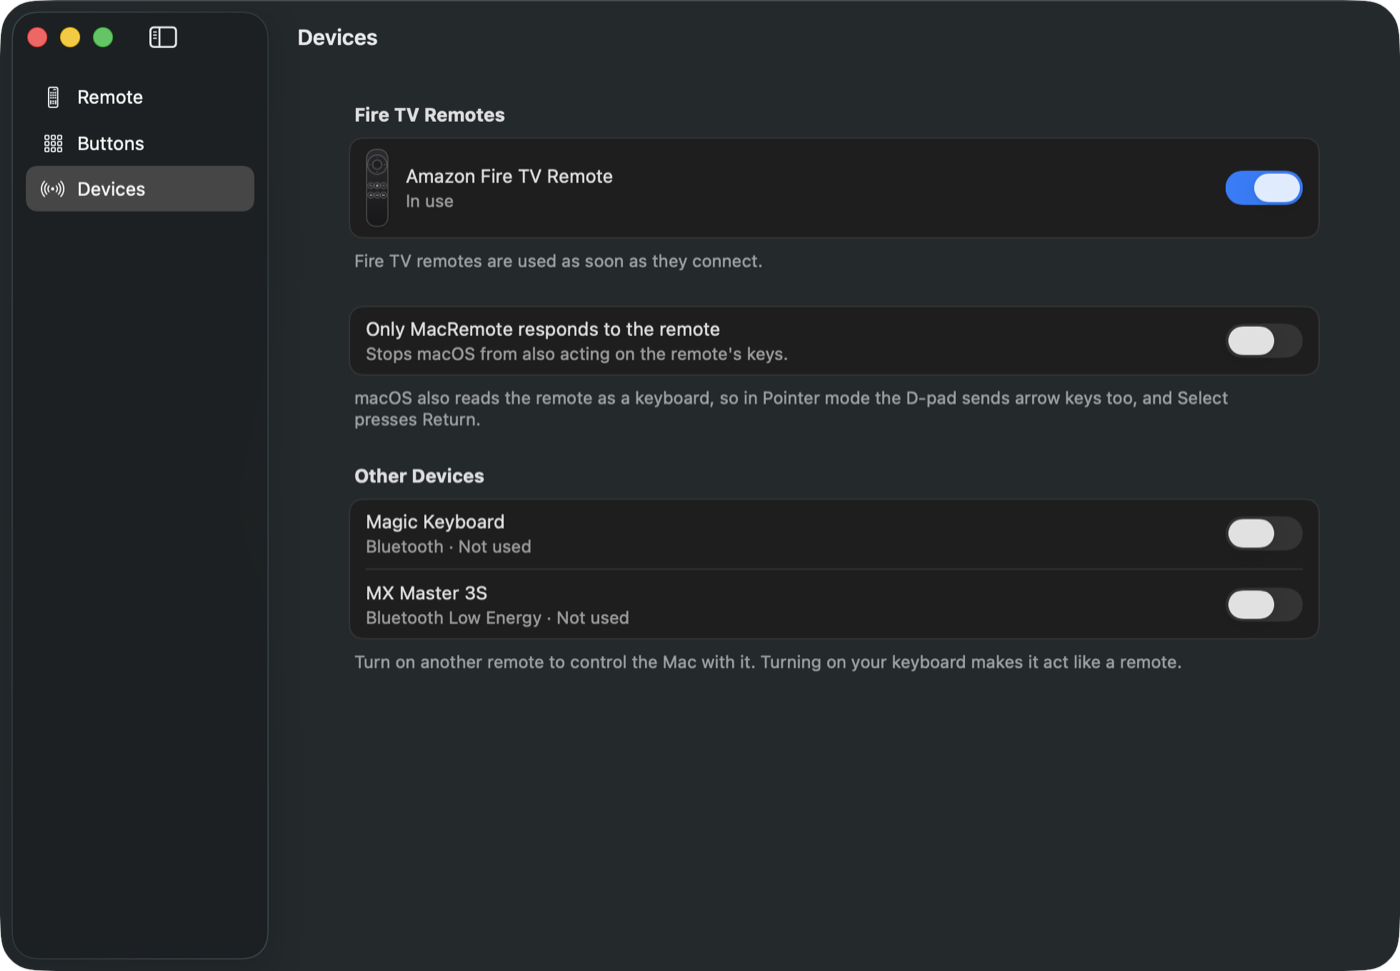
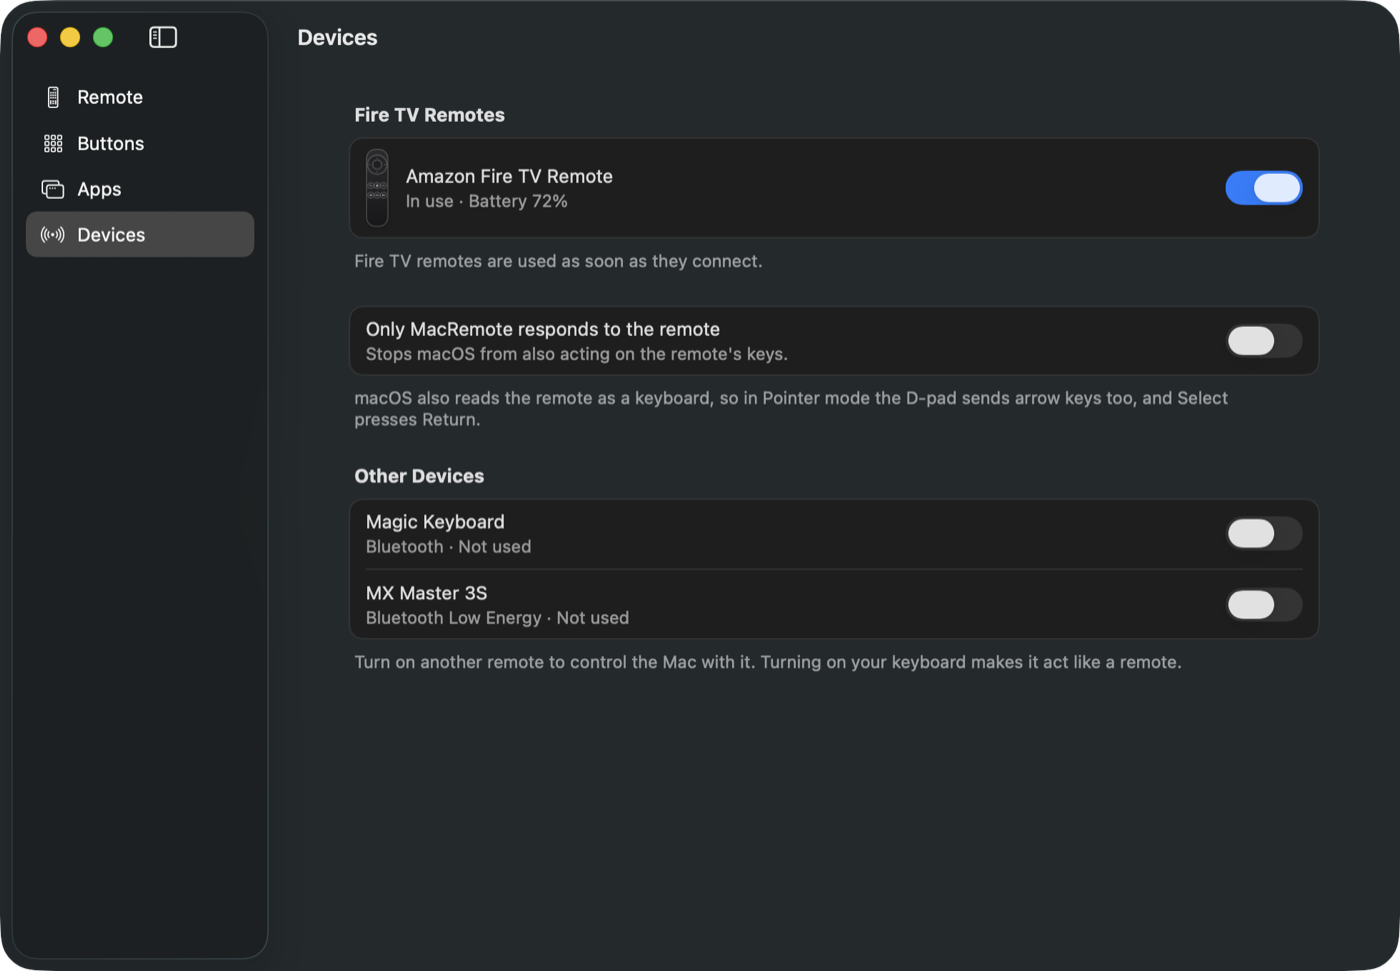
The README shows every feature: the Apps page, battery level, notifications, and Play/Pause no longer opening Music, with fresh screenshots

Changed region(s): [[0.0, 0.1545, 0.1843, 0.2781], [0.3379, 0.1854, 0.3993, 0.2163]]

diff --git a/README.md b/README.md
@@ -52,12 +52,19 @@ account, no network, and nothing to set up beyond two macOS permissions.
 - **Change what every button does.** Each button gets its own action in each mode,
   picked from nearly 40: keys, app and window switching, clicks and scrolling,
   media and volume, brightness, Mission Control, Spotlight, and display sleep.
+- **Buttons per app.** On the Apps page, a button can do something else while a
+  chosen app is in front. A new app starts with Play/Pause sending Space, for
+  video players that ignore the Mac's media keys.
 - **Learns new buttons.** Press a button MacRemote doesn't know and it appears on
   the Buttons page, ready to set.
 - **Watch it work.** The picture of the remote lights up as you press buttons, and
   the last presses are listed with what each one did.
 - **Keeps macOS out of the way.** Fire TV remotes also act as keyboards. One switch
-  makes only MacRemote respond to them, so a press never acts twice.
+  makes only MacRemote respond to them, so a press never acts twice. Play/Pause
+  never opens Music by itself, and the Mac's own keyboard is never affected.
+- **Battery and notifications.** The remote's battery level shows on the Remote
+  page, in Devices, and in the menu bar. MacRemote can notify you when a remote
+  connects or disconnects, and when its battery is low.
 - **Other devices work too.** Turn on any other connected HID device and it
   acts like a remote.
 - **A real Mac app.** Light and dark mode, a menu bar item, a keyboard shortcut for
@@ -82,15 +89,25 @@ account, no network, and nothing to set up beyond two macOS permissions.
       <p align="center"><b>Devices</b>: choose which remotes and devices to use.</p>
     </td>
   </tr>
+  <tr>
+    <td width="50%">
+      <picture>
+        <source media="(prefers-color-scheme: dark)" srcset="docs/images/apps-dark.png">
+        <img src="docs/images/apps-light.png" alt="The Apps page: an app with its own actions for Play/Pause, Rewind, and Fast Forward">
+      </picture>
+      <p align="center"><b>Apps</b>: give an app its own buttons.</p>
+    </td>
+    <td width="50%"></td>
+  </tr>
 </table>
 
 <p align="center">
   <picture>
     <source media="(prefers-color-scheme: dark)" srcset="docs/images/settings-dark.png">
-    <img src="docs/images/settings-light.png" width="480" alt="Settings: pointer speed, scroll speed, show the mode on screen, open at login">
+    <img src="docs/images/settings-light.png" width="480" alt="Settings: pointer speed, scroll speed, show the mode on screen, connection and low battery notifications, open at login">
   </picture>
   <br>
-  <b>Settings</b>: pointer and scroll speed, the mode badge, and open at login.
+  <b>Settings</b>: pointer and scroll speed, the mode badge, notifications, and open at login.
 </p>
 
 ## What the buttons do at first
@@ -109,7 +126,7 @@ account, no network, and nothing to set up beyond two macOS permissions.
 | Guide | Switch to last app | Switch to last app |
 
 You can change any of these on the Buttons page. **Restore Defaults** (⇧⌘R)
-brings them back.
+brings them back. To change a button in one app only, use the Apps page.
 
 ## Keyboard shortcuts
 
@@ -118,7 +135,8 @@ brings them back.
 | Pause or resume the remote | ⇧⌘P |
 | Switch mode | ⇧⌘M |
 | Restore default buttons | ⇧⌘R |
-| Remote, Buttons, Devices page | ⌘1, ⌘2, ⌘3 |
+| Add an app with its own buttons | ⇧⌘A |
+| Remote, Buttons, Apps, Devices page | ⌘1, ⌘2, ⌘3, ⌘4 |
 | Settings | ⌘, |
 
 These actions are also in the **Remote** menu and the menu bar item.
@@ -144,7 +162,7 @@ That's it. Press **Menu** to try both modes.
 | Permission | What MacRemote uses it for |
 |---|---|
 | Input Monitoring | Reading the remote's buttons |
-| Accessibility | Pressing keys, moving the pointer, and clicking |
+| Accessibility | Pressing keys, moving the pointer, and clicking, and stopping macOS from also acting on the remote |
 
 Permissions stay granted as long as you keep the same copy. Installing a new
 ad hoc build means granting them again: remove the old MacRemote entries with
@@ -160,11 +178,14 @@ ad hoc build means granting them again: remove the old MacRemote entries with
 
 - **`HIDMonitor`** finds HID devices with IOHIDManager and opens Fire TV remotes
   (vendor `0x1949`, or by name), exclusively when macOS allows it.
-- **`RemoteEngine`** looks up each press in the profile for the current mode and
-  runs the action once, repeats it while held, or keeps the pointer moving with
+- **`RemoteEngine`** looks up each press in the front app's own buttons, then in
+  the profile for the current mode, and runs the action once, repeats it while held, or keeps the pointer moving with
   acceleration.
 - **`EventSynth`** posts the keyboard, mouse, scroll, and media events.
-- **`MacRemoteKit`** holds the rules (buttons, actions, profiles, pointer motion)
+- **`RemoteKeyFilter`** is an event tap that drops the keys and media keys macOS
+  makes from a remote it shares with MacRemote. That matters on macOS 12, where
+  the `hidutil` key block doesn't stop them.
+- **`MacRemoteKit`** holds the rules (buttons, actions, profiles, app overrides, pointer motion, battery)
   with no UI, and is covered by unit tests.
 
 ## Build from source
@@ -219,7 +240,7 @@ NOTARY_PROFILE=macremote tools/release.sh
 | Path | What's there |
 |---|---|
 | `Sources/MacRemote/` | The app: AppKit shell, SwiftUI pages, remote input and output |
-| `Sources/MacRemoteKit/` | Buttons, actions, profiles, and pointer motion, with no UI |
+| `Sources/MacRemoteKit/` | Buttons, actions, profiles, app overrides, pointer motion, and battery, with no UI |
 | `Tests/MacRemoteKitTests/` | Unit tests |
 | `Icon/AppIcon.icon` | The Icon Composer app icon |
 | `tools/` | Release, self-test, snapshot, icon, and grid scripts |

diff --git a/CLAUDE.md b/CLAUDE.md
@@ -56,3 +56,4 @@ advice assumes macOS 26: where it uses a newer API, the macOS 12 rule above wins
 ## Git
 
 - Commit after each working change, with a message that says what the user can now do.
+- When a change adds or changes a feature, update `README.md` in the same commit (features, shortcuts, the screenshots in `docs/images/` from `tools/snap.sh`, how it works).
